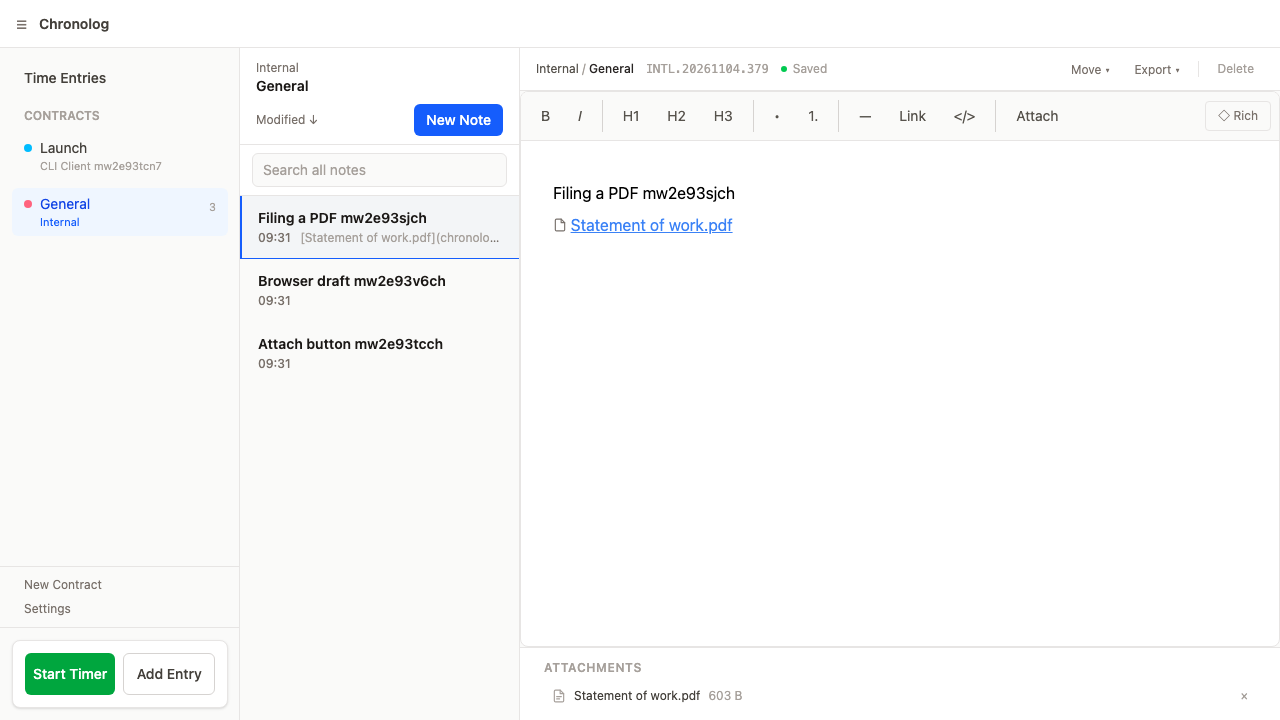
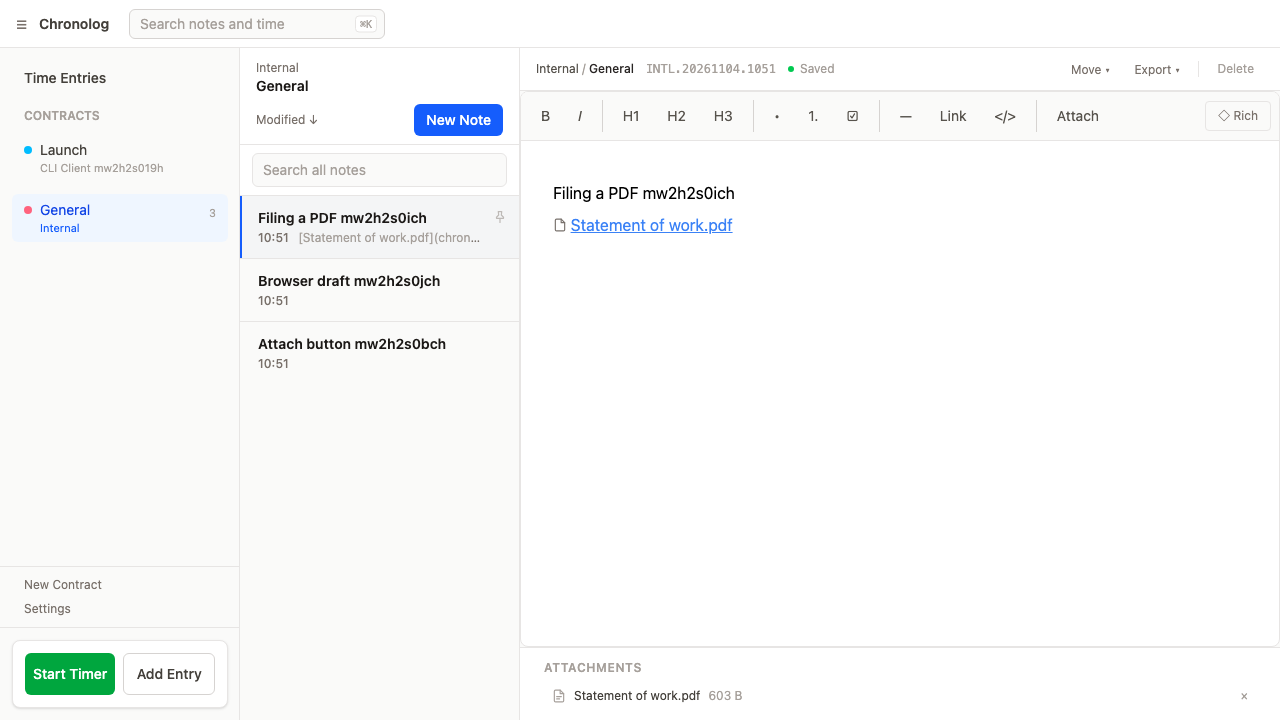
Bump CLI to v1.2.0; docs: sprints 039-042 merged

diff --git a/docs/backlog.md b/docs/backlog.md
@@ -25,29 +25,24 @@ The live backlog, rewritten 2026-11-03 after sprints 019 to 028. Sprint history 
 - **035-DT** macOS menu-bar app: window loads production, close hides, tray shows the running timer, built on the Mac mini (`~/sites/chronolog-desktop/`).
 - **038-CL** `POST /api/notes/batch`, `POST /api/time-entries/batch`, `chronolog import notes|entries`, `undo --last-import`, CLI 1.1.0.
 - **037-CL** Server-side note trash (`deleted_at`, 30-day purge, restore keeps ID and links), Undo toast, deleted wiki-links with inline restore, word count on create, container-runnable backfill and purge scripts; backlinks user-filter fix.
+- **039-CL** Pinned notes (`note pin|unpin`), client view `/notes/client/<id>`, collapsible clients, drag/keyboard client reorder (`client edit --order`); migration 0010.
+- **040-CL** Checkbox task lists in the editor and markdown, PDF boxes, `GET /api/notes/todos`, `chronolog todos`.
+- **041-CL** Editable start on a running timer (`PATCH /api/timer`, `timer start --at`, `timer adjust`, `timer stop`), Today button, Archive / Activate in Settings.
+- **042-CL** Global search (`/search`, `GET /api/search`, notes and entries, Cmd+K) and Cmd+F find in page; `chronolog search` covers entries. CLI 1.2.0.
 - **Offline banner and read cache** (`fix/offline-banner-and-cache`): the banner shows when the server is unreachable, and the read cache is write-through.
 
 ## Next (owner-decided, in this order)
 
 1. **Go-live on the Mac mini.** Owner steps in `docs/DEPLOYMENT.md`: `.env.prod`, first deploy, first account with registration opened then closed, Cloudflare Tunnel ingress and rate-limit rules, nightly backups.
-2. **Offline outbox sprint.** Long-lived read cache plus write outbox, last-write-wins per field, a visible "replayed" marker, and a held queue with a prompt when the server copy changed meanwhile (`docs/decisions.md`).
-3. **Airtable hours logging skill.**
-4. **End-client status and hours API skill.**
-5. **Invoice generation from existing templates.**
-6. **Key rotation (IF-4) and per-device keys (IF-5).** An `enc2:` envelope with a key id and a re-encrypt walker; several device keys so one lost device can be revoked alone.
+2. **Offline outbox sprint** (045-CL; runs last in the 2026-11-04 backlog run). Long-lived read cache plus write outbox, last-write-wins per field, a visible "replayed" marker, and a held queue with a prompt when the server copy changed meanwhile (`docs/decisions.md`).
+3. **Airtable hours logging skill.** Deferred by the owner until the MCP details are in hand.
+4. **End-client status and hours API skill.** Deferred until the owner has API access.
+5. **Invoice generation from existing templates.** Deferred until 3 and 4 are sorted.
+6. **Key rotation (IF-4) and per-device keys (IF-5).** Discuss with the owner before starting. An `enc2:` envelope with a key id and a re-encrypt walker; several device keys so one lost device can be revoked alone.
 
 ## Owner-requested, back of the queue (2026-11-04)
 
-- **Pin a note.** A pinned note sits at the top of its contract's note list (friction #40 covered this too; `notes.pinned_at` or a boolean, API + CLI `note pin|unpin`).
-- **Client view.** Clicking a client in the sidebar opens a combined note list across all of that client's contracts, pinned notes first, with the contract shown on each row; the URL is the state (`/notes/client/<clientId>`), and the sidebar highlights the client.
-- **Sidebar: drag to reorder clients.** Persisted per user (`clients.sort_order` exists for contracts; add the same for clients), keyboard alternative (move up/down), and the CLI `client edit --order`.
-- **Checkbox task lists in notes.** `- [ ]` / `- [x]` in markdown round-trips through TipTap (TaskList/TaskItem extensions) and the markdown serialiser, clickable in the editor, preserved by CLI edit/append and by export; CLI `note show` prints them as-is. Stretch: `chronolog todos [contract]` lists open items across notes.
-- **Editable start time on a running timer.** The timer widget's "Started: 16:04" becomes a time field (and a date when it crosses midnight); saving moves `startedAt` on the server timer so the elapsed clock, the menu-bar title and the saved entry all follow; CLI `timer start --at 09:30` and `timer adjust --at` as the API counterpart. Guard: not in the future, not earlier than the previous entry's end on that day without a warning.
-- **Global search.** A search bar at the top left of the shell (above the sidebar) that searches notes (title, body) and time entries (description) across all clients and opens a results page at `/search?q=`, grouped by type with client/contract, date and a highlighted snippet per hit; clicking a hit opens the note or the week with the entry selected. Server side extends the in-memory decrypted search from `notes/search` to time entries. Replaces the per-contract "Search all notes" box in the note list, or the two coexist (decide at spec time).
-- **Find in page (Cmd+F).** On a note or a timesheet week, Cmd+F opens a find bar at the top of that panel that searches only the current page, highlights every match, and has next/prev buttons and a count; Escape closes it. Browser find is intercepted only while the panel has focus; the desktop app gets the same shortcut.
-- **Today button.** In the timesheet week header, next to the week arrows, a "Today" button that jumps to the current week and scrolls today's section into view; disabled when already on the current week. CLI `week` already defaults to current.
-- **Archive / Activate as direct actions in Settings.** Today an active client (and contract) row only offers Archive from inside the Delete dialog; archived rows have Unarchive. Add an Archive button to active rows and label the pair Archive / Activate consistently in `ClientRow.svelte` and `ContractRow.svelte` (the form actions already exist).
-- **Sidebar: click a client heading to collapse its contracts.** Remembered per browser like the Archived group; collapsed-by-default rule to decide (suggest: never collapsed by default). Interacts with the client view above: a small disclosure control at the left of the client row (the same chevron the Archived group uses, in the slot where the colour dot sits now, dot moved next to the name) collapses; a click on the name opens the client view.
+All done in sprints 039–042 (2026-11-04). Open from them: the editor header has no pin control (list row only); the tablet overlay sidebar stays open when switching client views; `notes.is_pinned` is still written alongside `pinned_at` (drop later); find in page skips the raw markdown mode and wiki-link titles; `NoteEditor.svelte` is about 690 lines (move its CSS out); a client created after a reorder lands at the bottom.
 
 ## Carried-over follow-ups
 

diff --git a/cli/CHANGELOG.md b/cli/CHANGELOG.md
@@ -4,7 +4,10 @@ The CLI ships in the repo and takes its version from the root `package.json` (`c
 `chronolog me` also shows the server's version). A laptop is up to date after `git pull`. Sprints
 030, 033 and 035 changed nothing in the CLI and are not listed.
 
-## Unreleased
+## 1.2.0 (sprints 039–042-CL, 2026-11-04): timer, todos, search across entries, pins
+
+**Changed output:** `search --json` now returns `{ notes: { hits, total }, timeEntries: { hits, total } }`
+instead of a list of notes; scripts that read it need `notes.hits`.
 
 - Sprint 041-CL: `timer` / `timer status`, `timer start <contract> ["desc"] [--at [date] HH:MM]`,
   `timer adjust --at [date] HH:MM` and `timer stop` (stops and saves the entry). `--at` takes

diff --git a/docs/sprints/readme.md b/docs/sprints/readme.md
@@ -10,6 +10,10 @@
 
 | Sprint | Team | Phase | Status |
 |--------|------|-------|--------|
+| 039-CL | Client/Server | Pinned notes, client view, sidebar collapse and client reorder | merged |
+| 040-CL | Client/Server | Checkbox task lists, `chronolog todos` | merged |
+| 041-CL | Client/Server | Editable timer start, Today button, Archive/Activate in Settings | merged |
+| 042-CL | Client/Server | Global search and find in page | merged |
 | 037-CL | Client/Server | Server-side note trash with restore; word count on create | merged |
 | 038-CL | Client/Server | Batch notes and time entries, chronolog import | merged |
 | 035-DT | Desktop | macOS menu-bar app (Tauri 2) wrapping production | merged |

diff --git a/cli/readme.md b/cli/readme.md
@@ -94,7 +94,7 @@ Notes may hold checkbox items, `- [ ] open` and `- [x] done` (nested by two spac
 
 ### Version
 
-`chronolog --version` prints the CLI version, the root `package.json` version (1.1.0 since sprint 038). `chronolog me` adds the server's (`serverVersion` from `GET /api/me`). Changes per sprint are in [CHANGELOG.md](CHANGELOG.md).
+`chronolog --version` prints the CLI version, the root `package.json` version (1.2.0 since sprints 039–042). `chronolog me` adds the server's (`serverVersion` from `GET /api/me`). Changes per sprint are in [CHANGELOG.md](CHANGELOG.md).
 
 ### Setting up clients (sprint 031-CL)
 
